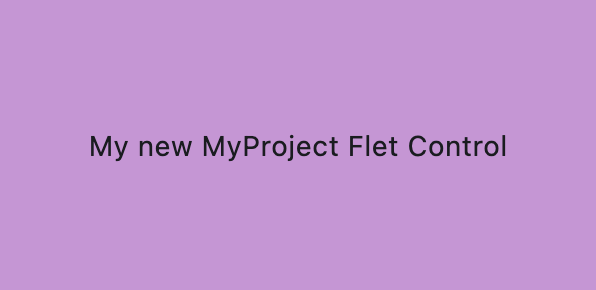
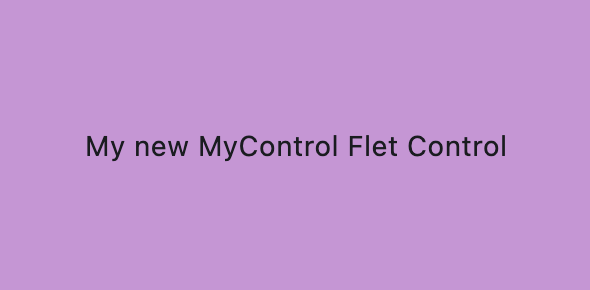
updated blog

Changed region(s): [[0.122, 0.4655, 0.8542, 0.5586]]

diff --git a/blog/2025-01-24-flet-v-0-26-release-announcement.md b/blog/2025-01-24-flet-v-0-26-release-announcement.md
@@ -66,14 +66,14 @@ Flet now makes it easy to create and build projects with your custom controls ba
 2. Create new Flet extension project from template:
 
 ```
-flet create --template extension --project-name my-project
+flet create --template extension --project-name my-control
 ```
 
-A project with new MyProject control will be created. The control is just a Flutter Text widget with a single `text` property.
+A project with new MyControl control will be created. The control is just a Flutter Text widget with a single `text` property.
 
 3. Build your app.
 
-Flet project created from extension template has `examples/my_project_example` folder with the example app.
+Flet project created from extension template has `examples/my_control_example` folder with the example app.
 
 When in the folder where your `pyproject.toml` for the app is, run `flet build` command, for example, for macOS:
 
@@ -84,7 +84,7 @@ flet build macos -v
 Run the app and see the new custom Flet Control:
 
 ```
-open build/macos/my-project-example.app
+open build/macos/my-control-example.app
 ```
 
 <img src="/img/blog/extensions/example.png" className="screenshot-30" />
